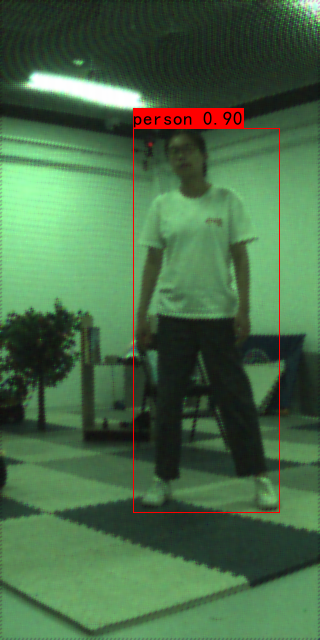
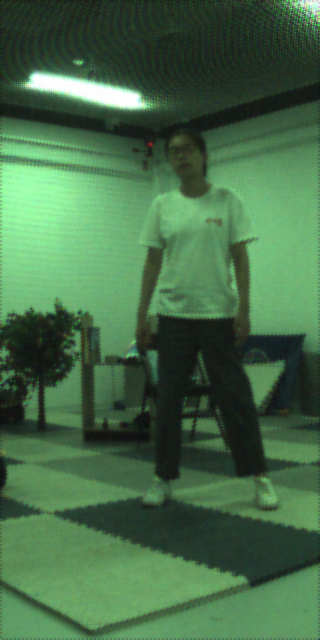
update on Aug 27

Changed region(s): [[0.4062, 0.1562, 0.7812, 0.2188], [0.8438, 0.7812, 0.875, 0.8125], [0.8438, 0.1875, 0.875, 0.2188]]

diff --git a/yolo.py b/yolo.py
@@ -7,7 +7,7 @@ import torch
 import torch.nn as nn
 from PIL import ImageDraw, ImageFont
 
-from nets.yolo import YoloBody
+from nets.yolo import YoloBody, Pose
 from utils.utils import (cvtColor, get_classes, preprocess_input,
                          resize_image, show_config)
 from utils.utils_bbox import DecodeBox
@@ -26,7 +26,7 @@ class YOLO(object):
         #   验证集损失较低不代表mAP较高，仅代表该权值在验证集上泛化性能较好。
         #   如果出现shape不匹配，同时要注意训练时的model_path和classes_path参数的修改
         #--------------------------------------------------------------------------#
-        "model_path"        : 'model_data/yolov8_s.pt',
+        "model_path"        : 'model_data/yolov8s-pose.pt',
         "classes_path"      : 'model_data/coco_classes.txt',
         #---------------------------------------------------------------------#
         #   输入图片的大小，必须为32的倍数。
@@ -100,7 +100,7 @@ class YOLO(object):
         #---------------------------------------------------#
         #   建立yolo模型，载入yolo模型的权重
         #---------------------------------------------------#
-        self.net    = YoloBody(self.input_shape, self.num_classes, self.phi)
+        self.net    = Pose(self.input_shape, self.num_classes, self.phi)
 
         # if torch.cuda.device_count() > 1:
         #     print(f"Let's use {torch.cuda.device_count()} GPUs!")
@@ -108,10 +108,13 @@ class YOLO(object):
         # else:
         #     device      = torch.device('cuda' if torch.cuda.is_available() else 'cpu')
         #     self.net.to(device)
-        
-        self.net.load_state_dict(torch.load(self.model_path))
+        # model = torch.load(self.model_path)['model']
+        # new_model = 'model_data/yolov8s-new.pt'
+        # torch.save(model.state_dict(), new_model)
+
+        self.net.load_state_dict(torch.load(self.model_path)['model'].state_dict(), strict=False)
         self.net    = self.net.fuse().eval()
-        print('{} model, and classes loaded.'.format(self.model_path))
+ 
         if not onnx:
             if self.cuda:
                 # self.net = nn.DataParallel(self.net)
@@ -148,7 +151,6 @@ class YOLO(object):
             #---------------------------------------------------------#
             #   将图像输入网络当中进行预测！
             #---------------------------------------------------------#
-            print("Yes")
             outputs = self.net(images)
             print("No")
             outputs = self.bbox_util.decode_box(outputs)
@@ -426,3 +428,37 @@ class YOLO(object):
 
         f.close()
         return 
+
+    def detect_image_pose(self, image, crop = False, count = False):
+        #---------------------------------------------------#
+        #   计算输入图片的高和宽
+        #---------------------------------------------------#
+        image_shape = np.array(np.shape(image)[0:2])
+        #---------------------------------------------------------#
+        #   在这里将图像转换成RGB图像，防止灰度图在预测时报错。
+        #   代码仅仅支持RGB图像的预测，所有其它类型的图像都会转化成RGB
+        #---------------------------------------------------------#
+        image       = cvtColor(image)
+        #---------------------------------------------------------#
+        #   给图像增加灰条，实现不失真的resize
+        #   也可以直接resize进行识别
+        #---------------------------------------------------------#
+        image_data  = resize_image(image, (self.input_shape[1], self.input_shape[0]), self.letterbox_image)
+        #---------------------------------------------------------#
+        #   添加上batch_size维度
+        #   h, w, 3 => 3, h, w => 1, 3, h, w
+        #---------------------------------------------------------#
+        image_data  = np.expand_dims(np.transpose(preprocess_input(np.array(image_data, dtype='float32')), (2, 0, 1)), 0)
+
+        with torch.no_grad():
+            images = torch.from_numpy(image_data)
+            if self.cuda:
+                images = images.cuda()
+            #---------------------------------------------------------#
+            #   将图像输入网络当中进行预测！
+            #---------------------------------------------------------#
+            outputs = self.net(images)
+            print(f"outputs[0] is {outputs[0].shape}")             
+            print(f"Hello")
+
+        return image

diff --git a/nets/yolo.py b/nets/yolo.py
@@ -152,6 +152,8 @@ class YoloBody(nn.Module):
         P5 = torch.cat([P4_downsample, feat3], 1)
         # 1024 * deep_mul + 512, 20, 20 => 1024 * deep_mul, 20, 20
         P5 = self.conv3_for_downsample2(P5)
+
+        kpt_x = [P3, P4, P5]
         #------------------------加强特征提取网络------------------------# 
         # P3 256, 80, 80
         # P4 512, 40, 40
@@ -174,4 +176,69 @@ class YoloBody(nn.Module):
         box, cls        = torch.cat([xi.view(shape[0], self.no, -1) for xi in x], 2).split((self.reg_max * 4, self.num_classes), 1)
         # origin_cls      = [xi.split((self.reg_max * 4, self.num_classes), 1)[1] for xi in x]
         dbox            = self.dfl(box)
-        return dbox, cls, x, self.anchors.to(dbox.device), self.strides.to(dbox.device)
+        return dbox, cls, x, self.anchors.to(dbox.device), self.strides.to(dbox.device), kpt_x
+
+class Pose(YoloBody):
+    def __init__(self, input_shape, num_classes, phi, pretrained=False):
+        super().__init__(input_shape, num_classes, phi, pretrained)
+        self.lynxi_compile = False
+        self.kpt_shape = (17, 3)
+        self.nc = 80
+        self.nk = self.kpt_shape[0] * self.kpt_shape[1]  # number of keypoints total
+        self.detect = YoloBody.forward
+
+        depth_dict          = {'n' : 0.33, 's' : 0.33, 'm' : 0.67, 'l' : 1.00, 'x' : 1.00,}
+        width_dict          = {'n' : 0.25, 's' : 0.50, 'm' : 0.75, 'l' : 1.00, 'x' : 1.25,}
+        deep_width_dict     = {'n' : 1.00, 's' : 1.00, 'm' : 0.75, 'l' : 0.50, 'x' : 0.50,}
+        dep_mul, wid_mul, deep_mul = depth_dict[phi], width_dict[phi], deep_width_dict[phi]
+        base_channels       = int(wid_mul * 64)  # 64
+        ch                  = [base_channels * 4, base_channels * 8, int(base_channels * 16 * deep_mul)]
+
+        c4 = max(ch[0] // 4, self.nk)
+        self.cv4 = nn.ModuleList(nn.Sequential(Conv(x, c4, 3), Conv(c4, c4, 3), nn.Conv2d(c4, self.nk, 1)) for x in ch)
+
+    def forward(self, x):
+        """Perform forward pass through YOLO model and return predictions."""
+        bs = x.shape[0]  # batch size
+        print(f"input is {x.shape}")
+        x = self.detect(self, x)
+        kpt_x = x[-1]
+        print(f"kpt_x[0] is {kpt_x[0].shape}")
+        print(f"kpt_x[1] is {kpt_x[1].shape}")
+        print(f"kpt_x[2] is {kpt_x[2].shape}")
+
+        kpt = torch.cat([self.cv4[i](kpt_x[i]).view(bs, self.nk, -1) for i in range(self.nl)], -1)  # (bs, 17*3, h*w)
+        print(f"kpt shape is {kpt.shape}")
+
+        if self.training:
+            return x, kpt
+        pred_kpt = self.kpts_decode(bs, kpt)
+        print(f"pred_kpt is {pred_kpt.shape}")
+        print(f"x[0] is {x[0].shape}")
+        if self.lynxi_compile:
+            return torch.cat([x[0], pred_kpt], 1)
+        # return torch.cat([x, pred_kpt], 1) if self.export else (torch.cat([x[0], pred_kpt], 1), (x[1], kpt))
+        return (torch.cat([x[0], pred_kpt], 1), (x[1], kpt))
+
+    def kpts_decode(self, bs, kpts):
+        """Decodes keypoints."""
+        ndim = self.kpt_shape[1]
+        # if self.export or self.lynxi_compile:  # required for TFLite export to avoid 'PLACEHOLDER_FOR_GREATER_OP_CODES' bug
+        #     y = kpts.view(bs, *self.kpt_shape, -1)
+        #     a = (y[:, :, :2] * 2.0 + (self.anchors - 0.5)) * self.strides
+        #     if ndim == 3:
+        #         a = torch.cat((a, y[:, :, 2:3].sigmoid()), 2)
+        #     return a.view(bs, self.nk, -1)
+        # else:
+        #     y = kpts.clone()
+        #     if ndim == 3:
+        #         y[:, 2::3].sigmoid_()  # inplace sigmoid
+        #     y[:, 0::ndim] = (y[:, 0::ndim] * 2.0 + (self.anchors[0] - 0.5)) * self.strides
+        #     y[:, 1::ndim] = (y[:, 1::ndim] * 2.0 + (self.anchors[1] - 0.5)) * self.strides
+        #     return y
+        y = kpts.clone()
+        if ndim == 3:
+            y[:, 2::3].sigmoid_()  # inplace sigmoid
+        y[:, 0::ndim] = (y[:, 0::ndim] * 2.0 + (self.anchors[0] - 0.5)) * self.strides
+        y[:, 1::ndim] = (y[:, 1::ndim] * 2.0 + (self.anchors[1] - 0.5)) * self.strides
+        return y

diff --git a/predict.py b/predict.py
@@ -81,17 +81,27 @@ if __name__ == "__main__":
         4、如果想要在预测图上写额外的字，比如检测到的特定目标的数量，可以进入yolo.detect_image函数，在绘图部分对predicted_class进行判断，
         比如判断if predicted_class == 'car': 即可判断当前目标是否为车，然后记录数量即可。利用draw.text即可写字。
         '''
-        while True:
-            img = input('Input image filename:')
-            # img = 'imgs_in/img0001.png'
-            try:
-                image = Image.open(img)
-            except:
-                print('Open Error! Try again!')
-                continue
-            else:
-                r_image = yolo.detect_image(image, crop = crop, count=count)
-                r_image.save("imgs_out/saved.png")
+        # while True:
+        #     img = input('Input image filename:')
+        #     try:
+        #         image = Image.open(img)
+        #     except:
+        #         print('Open Error! Try again!')
+        #         continue
+        #     else:
+        #         # r_image = yolo.detect_image(image, crop = crop, count=count)
+        #         r_image = yolo.detect_image_pose(image, crop = crop, count=count)
+        #         r_image.save("imgs_out/saved.png")
+
+        img = 'imgs_in/img0001.png'
+        try:
+            image = Image.open(img)
+        except:
+            print('Open Error! Try again!')
+        else:
+            # r_image = yolo.detect_image(image, crop = crop, count=count)
+            r_image = yolo.detect_image_pose(image, crop = crop, count=count)
+            r_image.save("imgs_out/saved.png")
 
 
     elif mode == "video":
